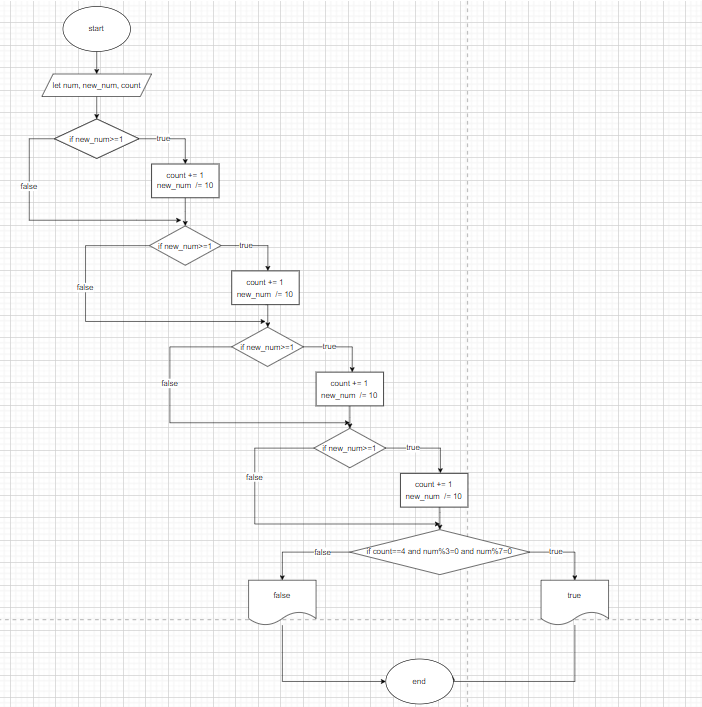
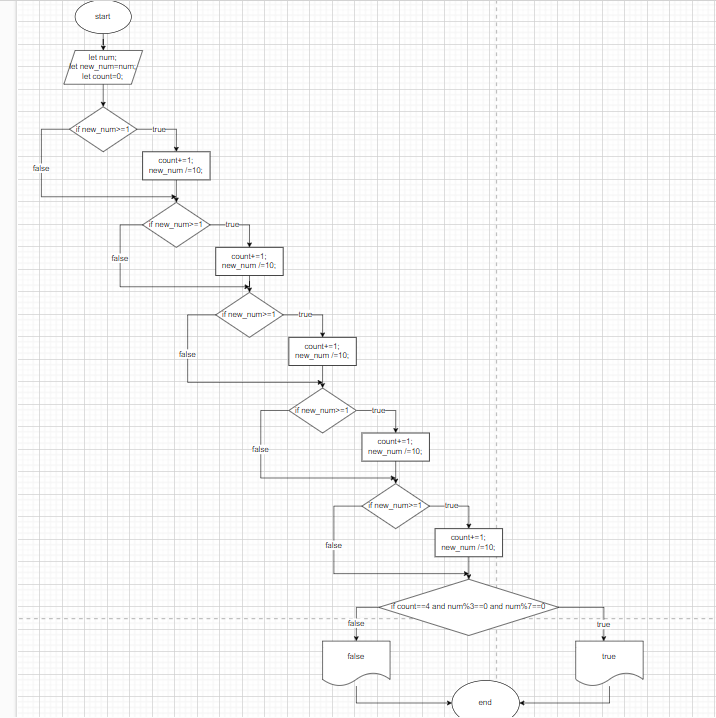
updated task2.js and task2.png

Changed region(s): [[0.0, 0.0, 1.0, 1.0]]

diff --git a/Js codes/task2.js b/Js codes/task2.js
@@ -1,6 +1,10 @@
-let num = 6321;
+let num = 4221;
 let new_num = num;
 let count = 0;
+if (new_num >= 1) {
+  count += 1;
+  new_num /= 10;
+}
 if (new_num >= 1) {
   count += 1;
   new_num /= 10;
